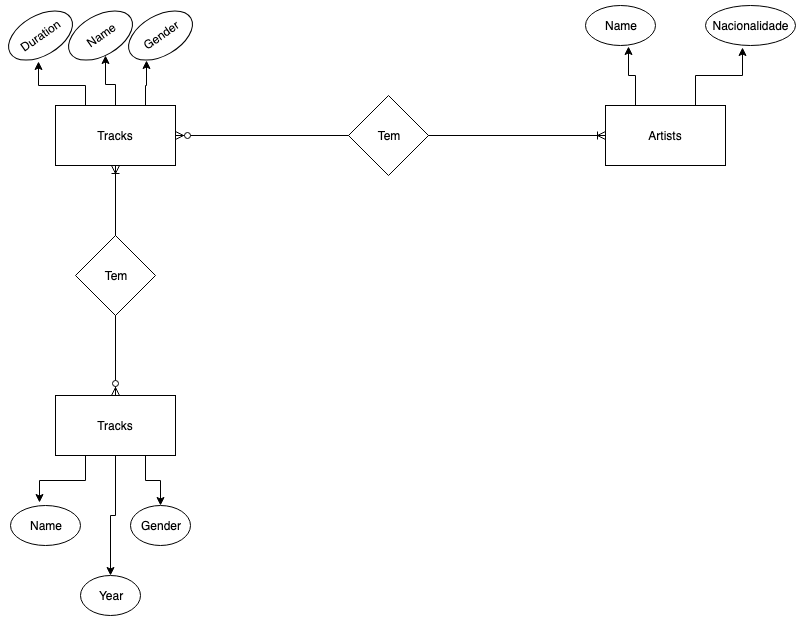
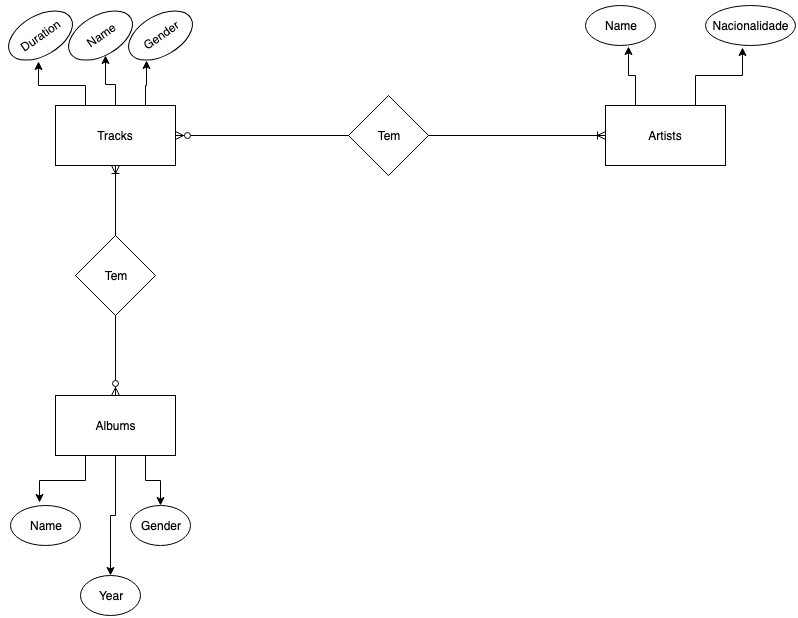
ModelorER at Readme

diff --git a/Readme.md b/Readme.md
@@ -42,4 +42,4 @@ Done
 
 ## Modelo E-R
 
-![Imgur](https://i.imgur.com/HfS1QMP.png)
+![Imgur](https://i.imgur.com/z2fTO9S.png)
